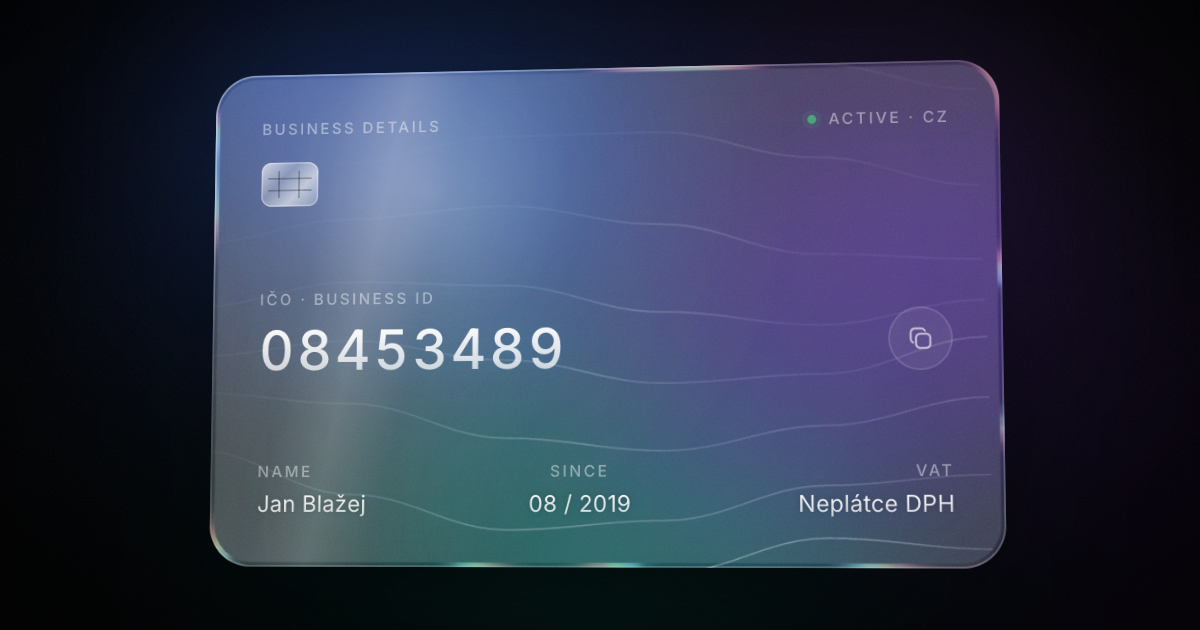
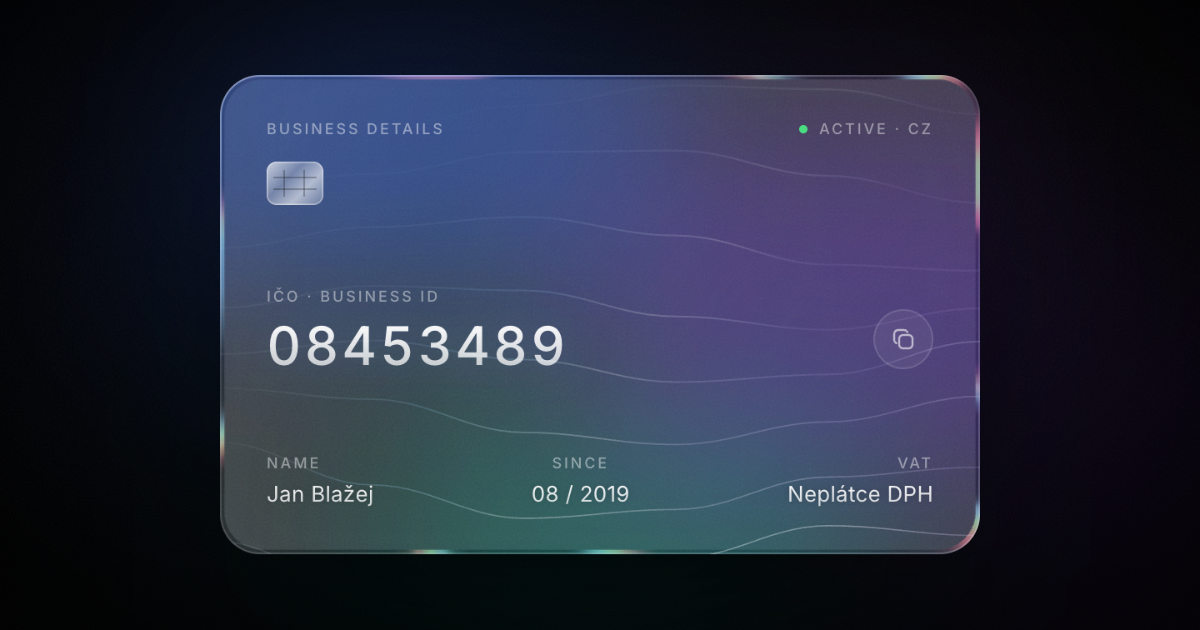
fix: Keep Footshop off /ico and render its OG card unhovered
/ico is about the sole proprietorship, so it shouldn't carry the employer:
the site-wide Person structured data (with `worksFor: Footshop`) moves out of
the root layout into a PersonJsonLd component rendered by the home, CV and
project routes, and /ico declares its own keywords instead of inheriting the
portfolio set.

The OG render is now flat and unhovered — screenshotted with reduced motion
emulated, which parks the tilt ticker and the drift animations.

diff --git a/src/app/layout.tsx b/src/app/layout.tsx
@@ -101,43 +101,8 @@ type Props = Readonly<{
 }>
 
 export default function RootLayout({children}: Props) {
-  const jsonLd = {
-    '@context': 'https://schema.org',
-    '@type': 'Person',
-    address: {
-      '@type': 'PostalAddress',
-      addressCountry: 'CZ',
-      addressLocality: 'Prague',
-    },
-    email: 'hello@janblazej.dev',
-    image: 'https://janblazej.dev/png/profile@3x.png',
-    jobTitle: 'Lead Mobile Developer & Founder',
-    knowsAbout: [
-      'React Native',
-      'Expo',
-      'TypeScript',
-      'iOS Development',
-      'Android Development',
-      'Mobile App Development',
-      'Swift',
-      'visionOS',
-      'RealityKit',
-    ],
-    name: 'Jan Blazej',
-    sameAs: ['https://www.linkedin.com/in/hzblj', 'https://github.com/hzblj', 'https://www.instagram.com/hzblj'],
-    url: 'https://janblazej.dev',
-    worksFor: {
-      '@type': 'Organization',
-      name: 'Footshop',
-      url: 'https://footshop.com',
-    },
-  }
-
   return (
     <html lang="en">
-      <head>
-        <script type="application/ld+json" dangerouslySetInnerHTML={{__html: JSON.stringify(jsonLd)}} />
-      </head>
       <body className={inter.className}>
         {children}
         <GoogleAnalytics />

diff --git a/src/app/ico/page.tsx b/src/app/ico/page.tsx
@@ -7,7 +7,8 @@ import {ico} from '@/db'
  * A headless render of the live card itself, so the social preview keeps the
  * frosted glass, the waves and the metal ring that CSS-in-SVG can't reproduce.
  * To refresh it, screenshot /ico in a 720×378 viewport at a 1.667 device pixel
- * ratio with everything below the card hidden.
+ * ratio with everything below the card hidden, emulating reduced motion and
+ * keeping the pointer off the card — that renders it flat and unhovered.
  */
 const ogImage = {
   alt: `IČO ${ico.ico} · ${ico.name}`,
@@ -21,6 +22,20 @@ export const metadata: Metadata = {
     canonical: '/ico',
   },
   description: `Business details of ${ico.name}, IČO ${ico.ico} — self-employed developer registered in Prague, Czechia.`,
+  // Overrides the site-wide keywords: this page is about the sole
+  // proprietorship, so it shouldn't carry employer or portfolio terms.
+  keywords: [
+    `IČO ${ico.ico}`,
+    ico.name,
+    'IČO',
+    'DIČ',
+    'fakturační údaje',
+    'billing details',
+    'business ID',
+    'OSVČ',
+    'freelance developer Prague',
+    'ARES',
+  ],
   openGraph: {
     description: `Business details — IČO ${ico.ico}, ${ico.location}.`,
     images: [ogImage],

diff --git a/src/components/person-json-ld.tsx b/src/components/person-json-ld.tsx
@@ -1,0 +1,39 @@
+const jsonLd = {
+  '@context': 'https://schema.org',
+  '@type': 'Person',
+  address: {
+    '@type': 'PostalAddress',
+    addressCountry: 'CZ',
+    addressLocality: 'Prague',
+  },
+  email: 'hello@janblazej.dev',
+  image: 'https://janblazej.dev/png/profile@3x.png',
+  jobTitle: 'Lead Mobile Developer & Founder',
+  knowsAbout: [
+    'React Native',
+    'Expo',
+    'TypeScript',
+    'iOS Development',
+    'Android Development',
+    'Mobile App Development',
+    'Swift',
+    'visionOS',
+    'RealityKit',
+  ],
+  name: 'Jan Blazej',
+  sameAs: ['https://www.linkedin.com/in/hzblj', 'https://github.com/hzblj', 'https://www.instagram.com/hzblj'],
+  url: 'https://janblazej.dev',
+  worksFor: {
+    '@type': 'Organization',
+    name: 'Footshop',
+    url: 'https://footshop.com',
+  },
+}
+
+/**
+ * Personal identity structured data. Rendered per route rather than site-wide,
+ * so pages about the sole proprietorship (/ico) aren't tied to an employer.
+ */
+export const PersonJsonLd = () => (
+  <script type="application/ld+json" dangerouslySetInnerHTML={{__html: JSON.stringify(jsonLd)}} />
+)

diff --git a/src/app/[slug]/page.tsx b/src/app/[slug]/page.tsx
@@ -2,7 +2,7 @@ import type {Metadata} from 'next'
 import Link from 'next/link'
 import {notFound} from 'next/navigation'
 
-import {ShotDetail} from '@/components'
+import {PersonJsonLd, ShotDetail} from '@/components'
 import {entries, getEntryBySlug} from '@/db'
 
 type Props = {
@@ -67,6 +67,7 @@ export default async function SlugPage({params}: Props) {
   if (entry.variant === 'shot') {
     return (
       <div className="w-full min-h-screen flex items-center justify-center p-4">
+        <PersonJsonLd />
         <div className="max-w-[600px] w-full">
           <div className="card-modal">
             <div className="mb-4 px-[20px] md:px-8 pt-4">

diff --git a/src/app/(home)/layout.tsx b/src/app/(home)/layout.tsx
@@ -1,6 +1,6 @@
 import {type ReactNode} from 'react'
 
-import {ControlsDock, SoundControls} from '@/components'
+import {ControlsDock, PersonJsonLd, SoundControls} from '@/components'
 import {Config} from '@/config'
 import {IntroProvider, SoundProvider} from '@/providers'
 import {toPx} from '@/utils'
@@ -13,6 +13,7 @@ export default function RootLayout({children}: Props) {
   return (
     <SoundProvider>
       <IntroProvider>
+        <PersonJsonLd />
         <main id="main" className="bg-black block relative">
           <div
             className="overflow-hidden responsive-scale will-change-[transform,opacity] origin-[0px_0px]"

diff --git a/src/app/cv/page.tsx b/src/app/cv/page.tsx
@@ -1,8 +1,9 @@
-import {CV} from '@/components'
+import {CV, PersonJsonLd} from '@/components'
 
 export default async function Cv() {
   return (
     <div className="flex w-full h-full justify-center overflow-y-scroll pt-[116px]">
+      <PersonJsonLd />
       <div className="max-w-[572px] w-full h-full flex flex-col items-center">
         <CV animated>
           <div className="flex h-[116px] w-full flex-shrink-0" />

diff --git a/src/components/index.ts b/src/components/index.ts
@@ -11,6 +11,7 @@ export * from './cv'
 export * from './google-analytics'
 export * from './ico-card'
 export * from './intro-overlay'
+export * from './person-json-ld'
 export * from './shot-detail'
 export * from './sound-controls'
 export * from './web-vitals'
